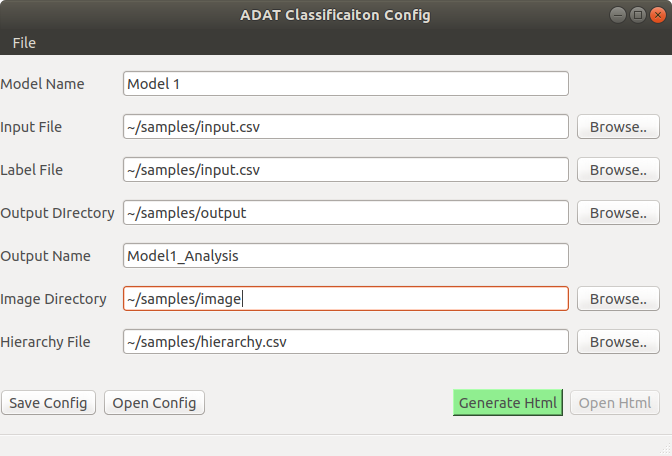
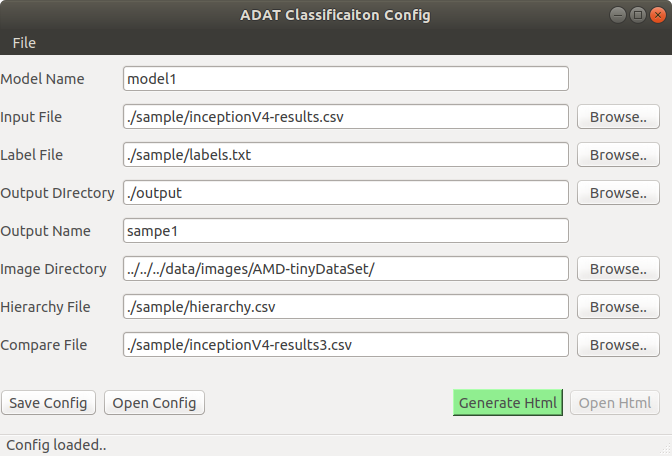
Readme changes, added updated gui image for adat classification

diff --git a/toolkit/amd_data_analysis_toolkit/classification/README.md b/toolkit/amd_data_analysis_toolkit/classification/README.md
@@ -24,6 +24,7 @@ usage: generate-visualization.py  [-h/--help]
                                   --output_dir OUTPUT_DIR
                                   --output_name OUTPUT_NAME
                                   [--file FILE_NAME]
+                                  [-compare COMPARE_WITH]
 ```
 
 #### Input Help
@@ -37,7 +38,9 @@ usage: generate-visualization.py  [-h/--help]
  --model_name         input inferece model name [optional]
  --output_dir         output dir to store ADAT results [required]
  --output_name        output ADAT file name [required]
- --file               json/ini file to load arguments from [optional]
+ --file               json/ini file to load arguments from
+ --compare            csv file to compare the results with, the compare results are visible in the "Image Results" table
+ [optional]
 ```
 
 * --inference_results : **Result CSV File**
@@ -73,7 +76,8 @@ The format for the json config file is as follows
     "output_dir": "[output directory -> required]",
     "image_dir": "[Images dir -> optional]",
     "output_name": "[output name -> required]",
-    "model_name": "[model name -> optional]"
+    "model_name": "[model name -> optional]",
+    "compare":"[compare csv file -> optional]"
 }
 ```
 
@@ -94,6 +98,7 @@ output_dir = ./output
 image_dir = ../../../data/images/AMD-tinyDataSet/
 output_name = classificationVisualized
 model_name = model1
+compare = ./sample/new_results.csv
 ```
 
 ## Using GUI to load settings
